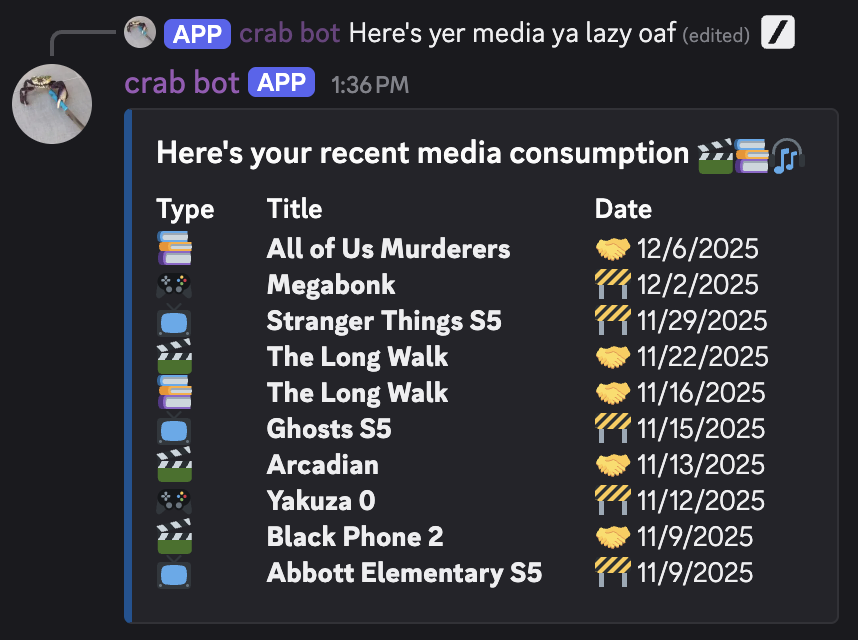
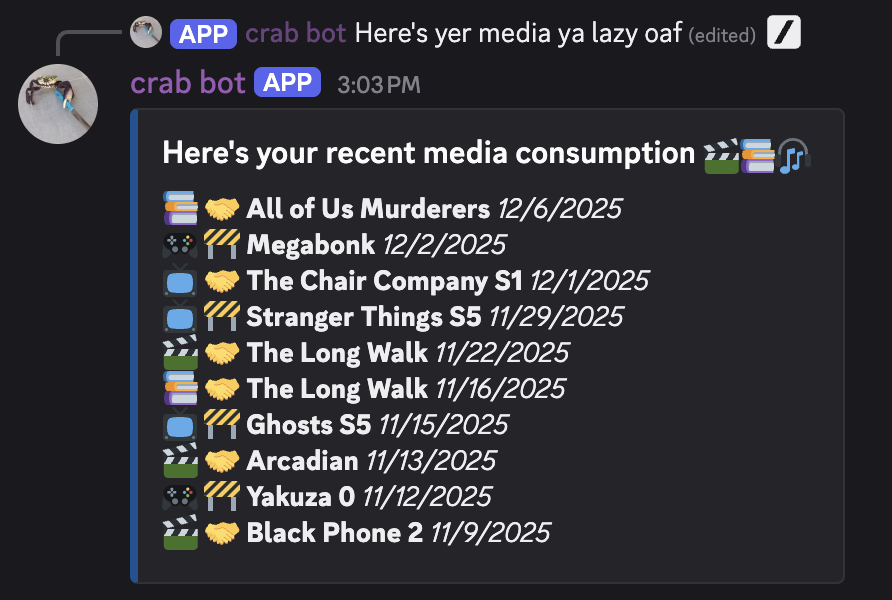
revert embed formatting
looks bad on mobile 🥀

Changed region(s): [[0.1818, 0.21, 0.9394, 0.93], [0.0, 0.0, 0.9394, 0.24]]

diff --git a/services/media-handler.js b/services/media-handler.js
@@ -101,40 +101,14 @@ const viewMedia = async (mediaReq) => {
   let viewMediaEmbed = {
     color: 0x0b5394,
     title: `Here's your recent media consumption 🎬📚🎧`,
-    description: '',
-    fields: []
+    description: ''
   }
-
-  let mediaTypes = ''
-  let mediaNames = ''
-  let mediaDatesAndStatuses = ''
 
   // append value to each embed field
   // used google app script to auto-sort sheet by date
   for (const media of mediaObjects.slice(0, filters.count)) {
-    mediaTypes += `${mediaEmoji(media.Type)}\n`;
-    mediaNames += ` ** ${media.Title} ** \n`;
-    mediaDatesAndStatuses += `${mediaStatusEmoji(media.Status)} ${media.Date}\n`;
+    viewMediaEmbed.description += `${mediaEmoji(media.Type)} ${mediaStatusEmoji(media.Status)} ** ${media.Title} ** *${media.Date}*\n`;
   }
-
-  // finish setting the embed fields
-  viewMediaEmbed.fields.push(
-    {
-      name: `Type`,
-      value: mediaTypes,
-      inline: true,
-    }, 
-    {
-      name: `Title`,
-      value: mediaNames,
-      inline: true,
-    }, 
-    {
-      name: `Date`,
-      value: mediaDatesAndStatuses,
-      inline: true,
-    }
-  );
 
   return viewMediaEmbed;
 }
